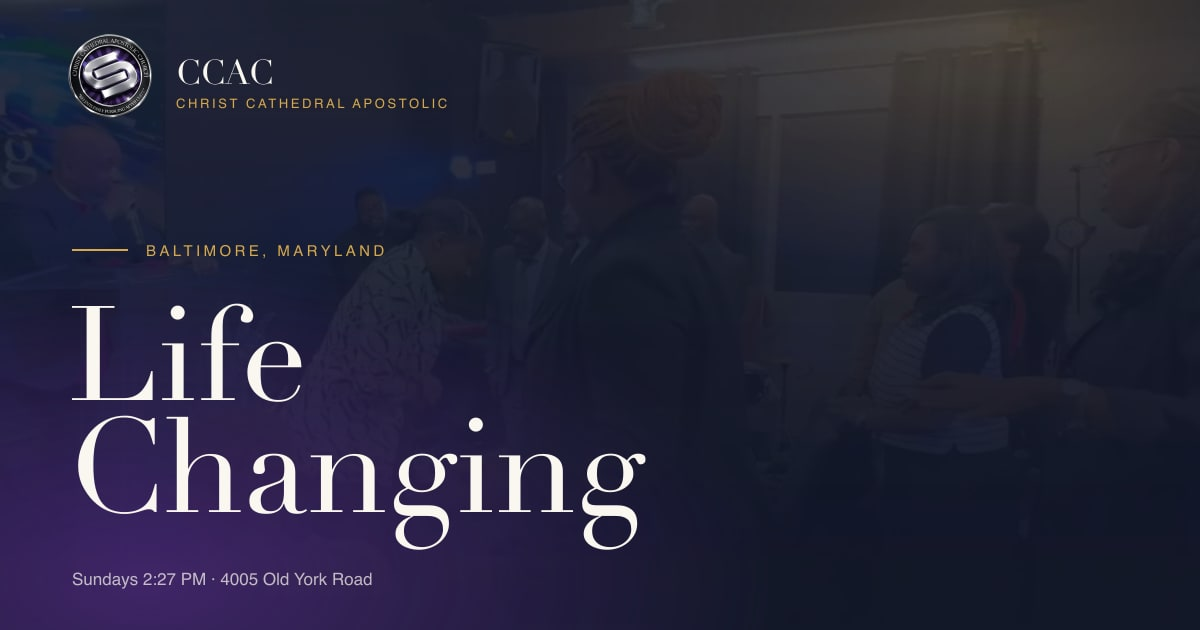
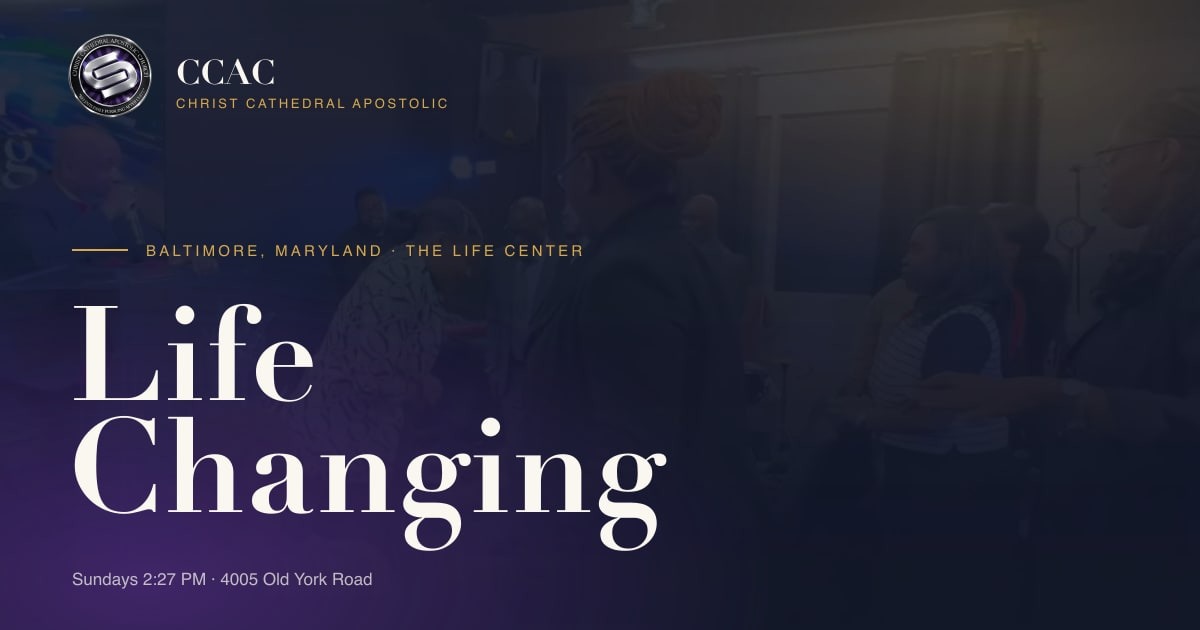
Switch display face to Playfair Display; hero label is now The Life Center
Replaces Fraunces with Playfair Display throughout. Hero runs bold (700) as
asked — Playfair's hairlines need the weight at display size — and section
headings run 600 rather than the previous 500, which reads delicate in this
face against Inter body copy. Tracking eased from -0.04em to -0.025em on the
hero and -0.02em to -0.015em on headings; Playfair sets tighter than Fraunces
and the old values were closing up the counters.

Hero eyebrow now reads "Baltimore, Maryland · The Life Center".

Share card regenerated to match: same label, bolder headline. It renders in
Didot rather than Playfair — this sharp build resolves fonts through CoreText,
so it only sees system-installed families. Didot is the closest available
(Playfair descends from the same didone tradition). Installing Playfair would
make it exact.

Note: the footer still reads "Baltimore, Maryland · Apostolic Ministry".

diff --git a/src/styles.css b/src/styles.css
@@ -11,7 +11,7 @@
  */
 
 @theme inline {
-  --font-display: "Fraunces", "Cormorant Garamond", Georgia, serif;
+  --font-display: "Playfair Display", Georgia, "Times New Roman", serif;
   --font-sans: "Inter", system-ui, -apple-system, sans-serif;
 
   --radius-sm: calc(var(--radius) - 4px);
@@ -150,17 +150,18 @@
   }
   h1, h2, h3, h4 {
     font-family: var(--font-display);
-    letter-spacing: -0.02em;
-    font-weight: 500;
+    letter-spacing: -0.015em;
+    font-weight: 600;
   }
 }
 
 /* Display headline utility */
 @utility display-hero {
   font-family: var(--font-display);
-  font-weight: 500;
-  letter-spacing: -0.04em;
-  line-height: 0.92;
+  /* Bold on the hero — Playfair's thin strokes need the weight at this size */
+  font-weight: 700;
+  letter-spacing: -0.025em;
+  line-height: 0.94;
 }
 
 /* Eyebrow label */

diff --git a/src/routes/index.tsx b/src/routes/index.tsx
@@ -38,7 +38,7 @@ function HomePage() {
         <div className="relative mx-auto max-w-7xl px-6 lg:px-10 pt-40 pb-32 lg:pt-48">
           <div className="flex items-center gap-3 mb-8">
             <div className="h-px w-10 bg-gold" />
-            <div className="eyebrow text-gold">Baltimore, Maryland · Apostolic Ministry</div>
+            <div className="eyebrow text-gold">Baltimore, Maryland · The Life Center</div>
           </div>
 
           <p className="max-w-md text-night-foreground/80 leading-relaxed mb-12">

diff --git a/src/routes/__root.tsx b/src/routes/__root.tsx
@@ -61,7 +61,7 @@ export const Route = createRootRoute({
       { rel: "preconnect", href: "https://fonts.gstatic.com", crossOrigin: "anonymous" },
       {
         rel: "stylesheet",
-        href: "https://fonts.googleapis.com/css2?family=Fraunces:opsz,wght@9..144,400;9..144,500;9..144,600&family=Inter:wght@400;500;600;700&display=swap",
+        href: "https://fonts.googleapis.com/css2?family=Playfair+Display:wght@400..900&family=Inter:wght@400;500;600;700&display=swap",
       },
     ],
   }),
